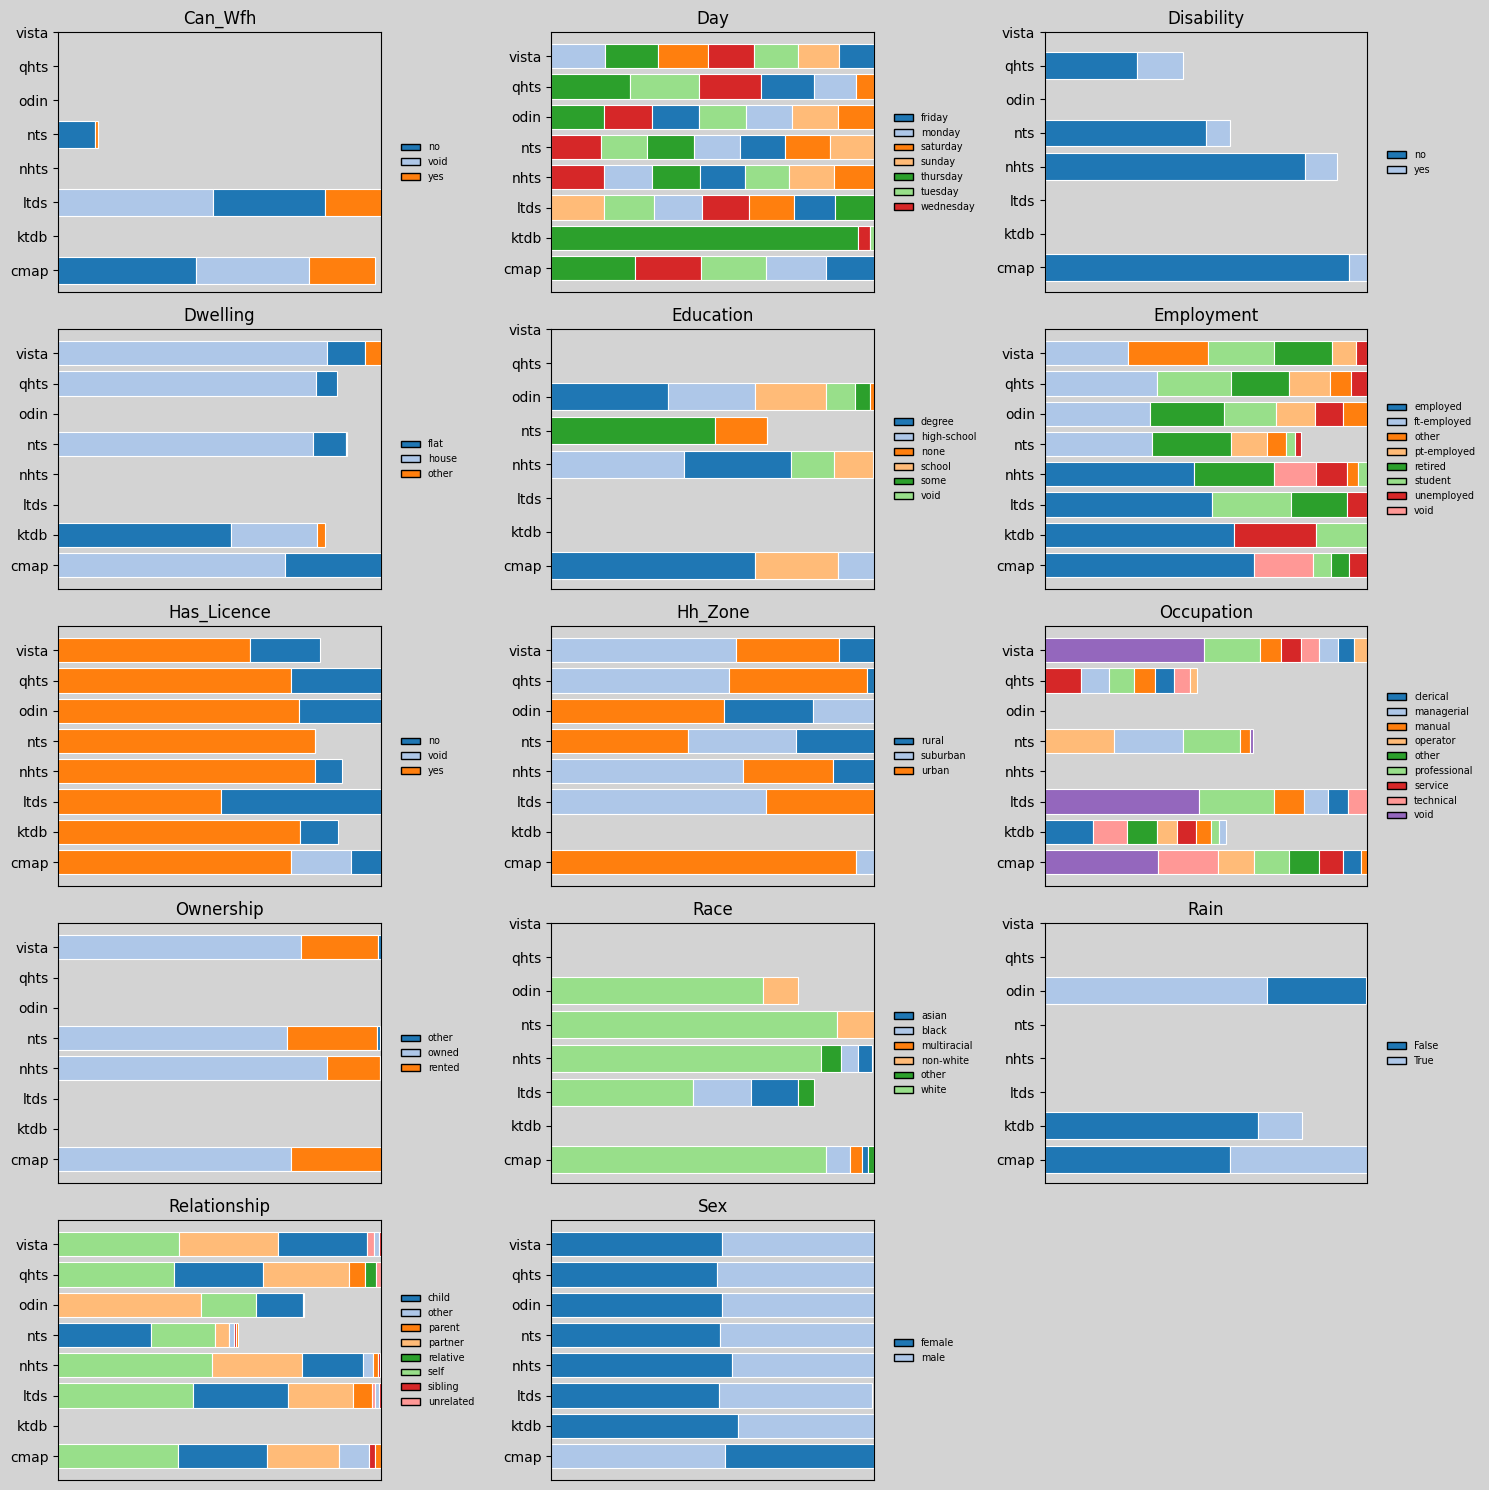
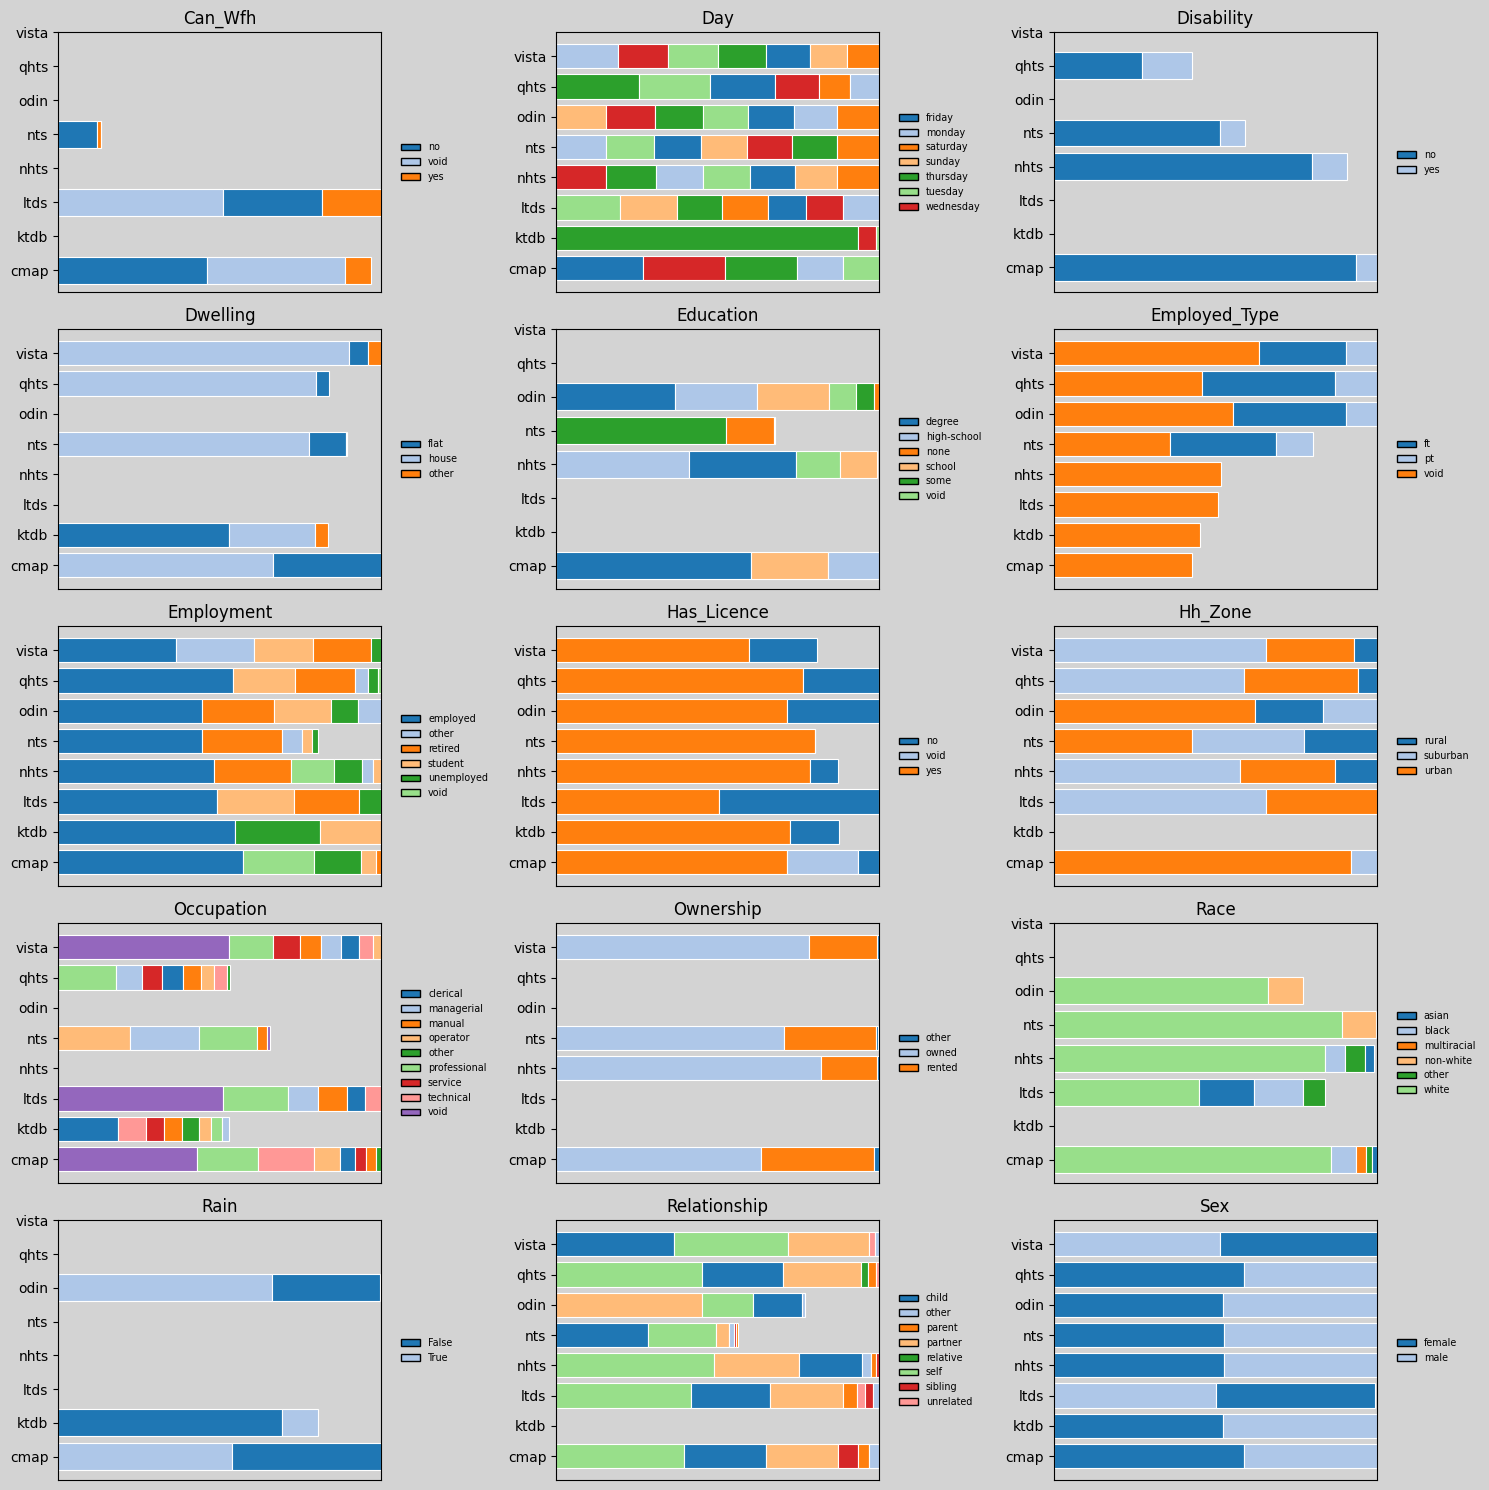
updates readme

diff --git a/README.md b/README.md
@@ -8,17 +8,18 @@ The project is intended to be uses as a discoverable cli: `uv run foundata --hel
 
 The latest output using 'foundata run' (home based with no consecutive home, work or education acts) is as follows:
 
+
 | source | plans | missing data | trips | kms (millions) |
 |------|-----|------------|-----|--------------|
-| ktdb | 120,100 | 37% | 285,011 | 0.8 |
-| ltds | 60,124 | 34% | 106,668 | 0.9 |
-| nts | 2,481,048 | 22% | 4,413,614 | 45.3 |
+| ltds | 60,123 | 36% | 106,669 | 0.9 |
+| nhts | 630,925 | 27% | 2,201,088 | 24.9 |
+| nts | 2,483,044 | 22% | 4,420,967 | 45.4 |
 | odin | 270,193 | 26% | 634,515 | 7.1 |
-| vista | 89,466 | 29% | 233,600 | 2.0 |
-| cmap | 25,385 | 5% | 74,572 | 0.5 |
-| qhts | 48,794 | 33% | 117,998 | 1.2 |
-| nhts | 631,065 | 25% | 2,201,666 | 24.9 |
-| **total** | **3,726,175** | **23%** | **8,067,644** | **82.6** |
+| qhts | 48,718 | 33% | 117,885 | 1.2 |
+| cmap | 25,716 | 7% | 76,658 | 0.5 |
+| ktdb | 120,100 | 39% | 285,011 | 0.8 |
+| vista | 89,465 | 29% | 235,847 | 2.0 |
+| **total** | **3,728,284** | **24%** | **8,078,640** | **82.7** |
 
 
 ### Person Attributes Status
